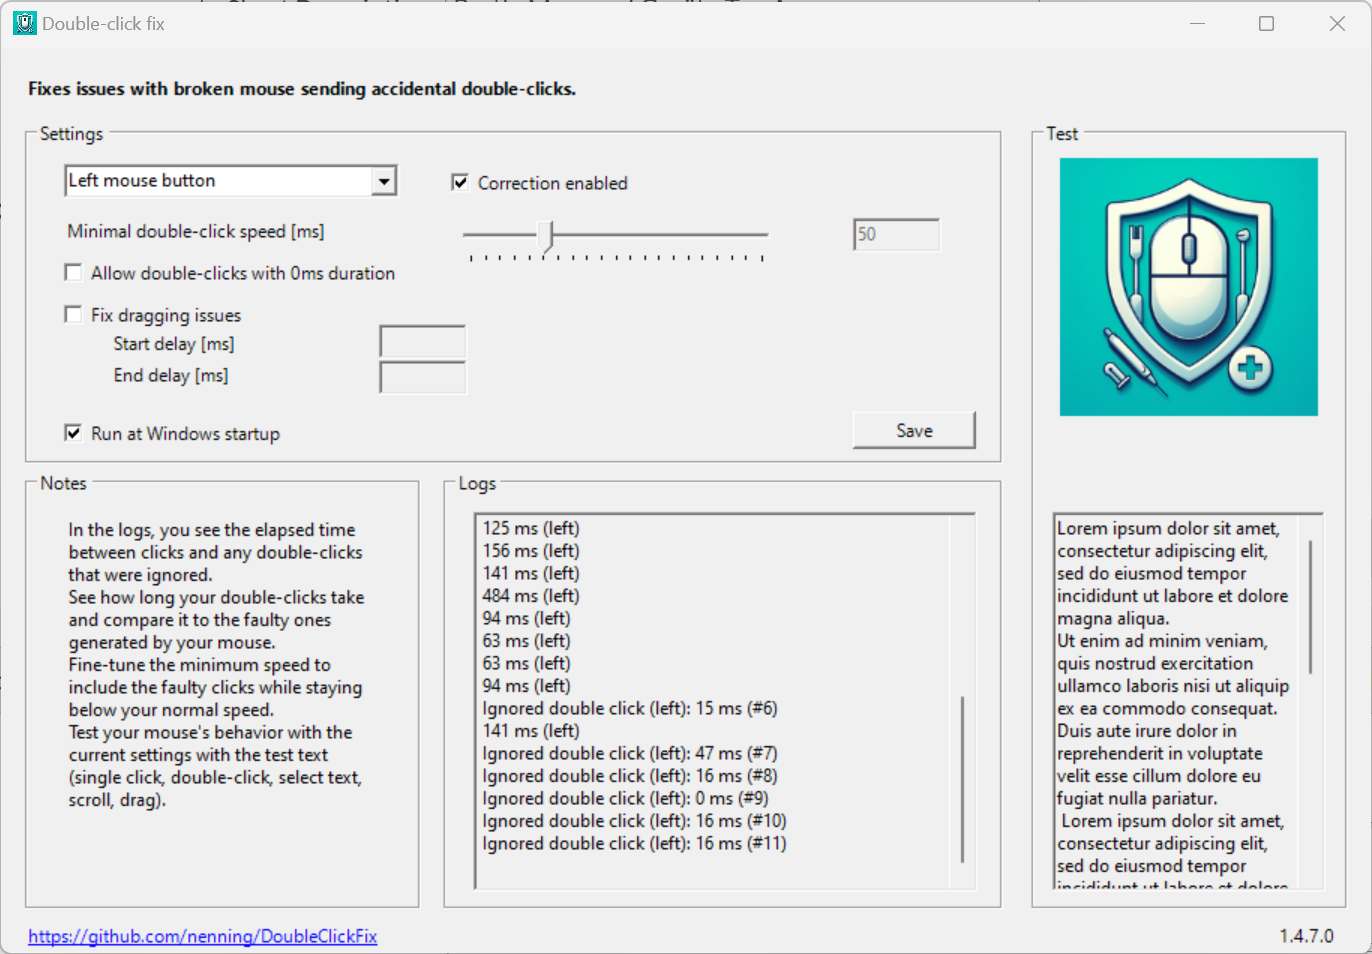
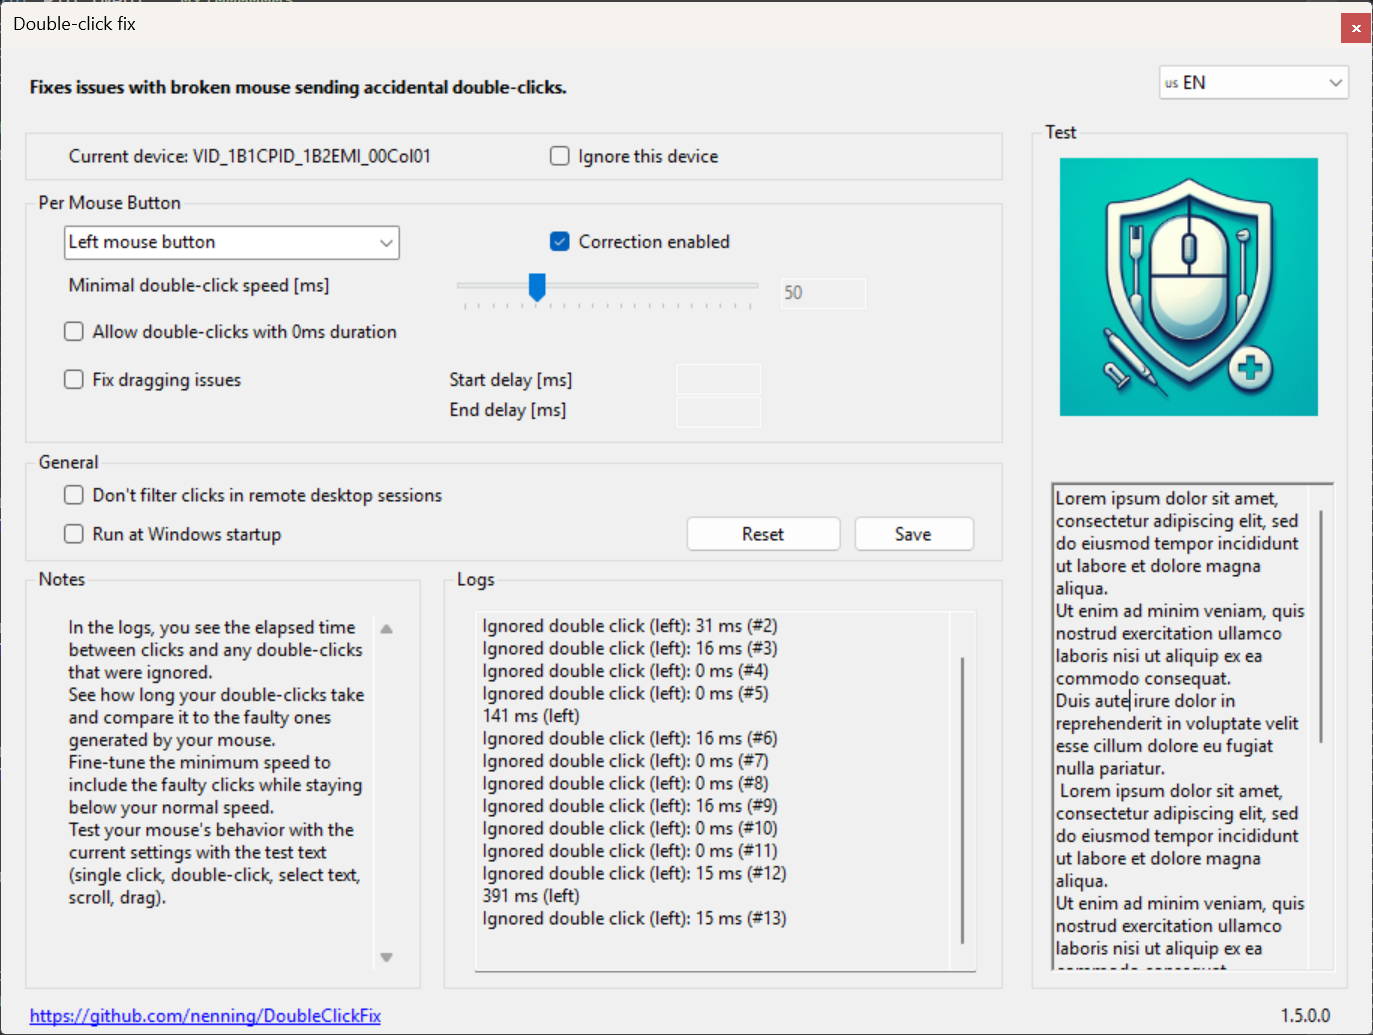
Improve single-instance detection using EnumWindows
Replaced FindWindow-based instance detection with EnumWindows and process ID checks for more robust notification of running instances. Added necessary P/Invoke methods to NativeMethods. Updated fallback message box to use a hardcoded window title. Also updated main-screen.png.

diff --git a/DoubleClickFix/Program.cs b/DoubleClickFix/Program.cs
@@ -37,6 +37,34 @@ internal class Program
         }
     }
 
+    private static bool NotifyRunningInstance()
+    {
+        string processName = Process.GetCurrentProcess().ProcessName;
+        var otherPids = Process.GetProcessesByName(processName)
+            .Where(p => p.Id != Environment.ProcessId)
+            .Select(p => (uint)p.Id)
+            .ToHashSet();
+
+        if (otherPids.Count == 0)
+            return false;
+
+        // Send WM_SHOWME to all top-level windows of the other process.
+        // WinForms creates several internal windows alongside the form, so we
+        // broadcast to all of them — only InteractiveForm.WndProc handles it.
+        bool sent = false;
+        NativeMethods.EnumWindows((hWnd, _) =>
+        {
+            NativeMethods.GetWindowThreadProcessId(hWnd, out uint pid);
+            if (otherPids.Contains(pid))
+            {
+                NativeMethods.PostMessage(hWnd, NativeMethods.WM_SHOWME, IntPtr.Zero, IntPtr.Zero);
+                sent = true;
+            }
+            return true; // continue enumeration
+        }, IntPtr.Zero);
+        return sent;
+    }
+
     [STAThread]
     private static void Main(string[] args)
     {
@@ -61,17 +89,10 @@ internal class Program
         if (settings.UseHook && !mutex.WaitOne(TimeSpan.Zero, true))
         {
             // an instance is already running – bring its UI to the front
-            var resources = new System.ComponentModel.ComponentResourceManager(typeof(InteractiveForm));
-            var windowTitle = resources.GetString("$this.Text") ?? "Double-click Fix";
-            IntPtr hWnd = NativeMethods.FindWindow(null, windowTitle);
-            if (hWnd != IntPtr.Zero)
-            {
-                NativeMethods.PostMessage(hWnd, NativeMethods.WM_SHOWME, IntPtr.Zero, IntPtr.Zero);
-            }
-            else
+            if (!NotifyRunningInstance())
             {
                 // Fallback if the window can't be found for some reason
-                MessageBox.Show(Resources.AppAlreadyRunning, windowTitle);
+                MessageBox.Show(Resources.AppAlreadyRunning, "Double-click Fix");
             }
             return;
         }

diff --git a/DoubleClickFix/NativeMethods.cs b/DoubleClickFix/NativeMethods.cs
@@ -256,6 +256,14 @@ internal class NativeMethods : INativeMethods
     [DllImport("user32.dll", CharSet = CharSet.Unicode)]
     internal static extern IntPtr FindWindow(string? lpClassName, string lpWindowName);
 
+    internal delegate bool EnumWindowsProc(IntPtr hWnd, IntPtr lParam);
+
+    [DllImport("user32.dll")]
+    internal static extern bool EnumWindows(EnumWindowsProc lpEnumFunc, IntPtr lParam);
+
+    [DllImport("user32.dll")]
+    internal static extern uint GetWindowThreadProcessId(IntPtr hWnd, out uint lpdwProcessId);
+
     [DllImport("user32.dll")]
     [return: MarshalAs(UnmanagedType.Bool)]
     internal static extern bool SetForegroundWindow(IntPtr hWnd);
